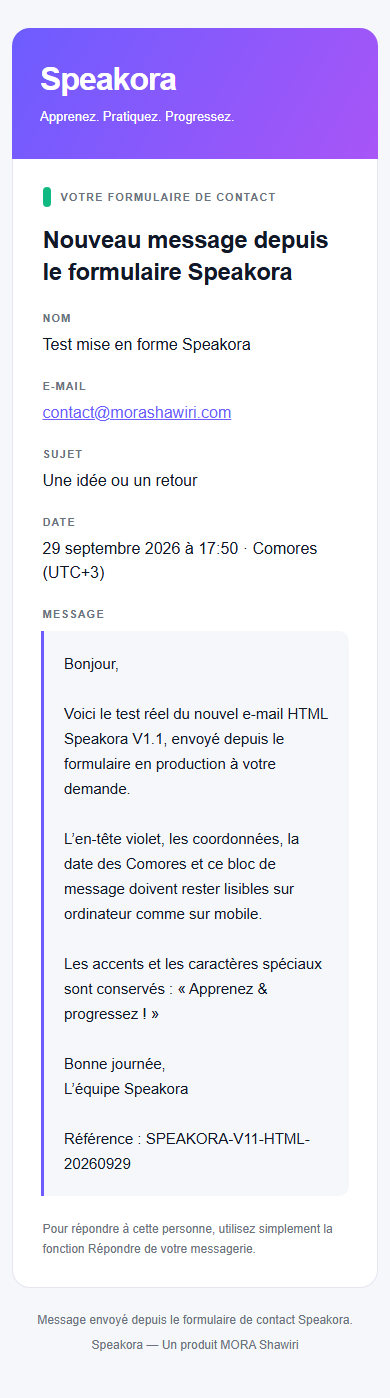
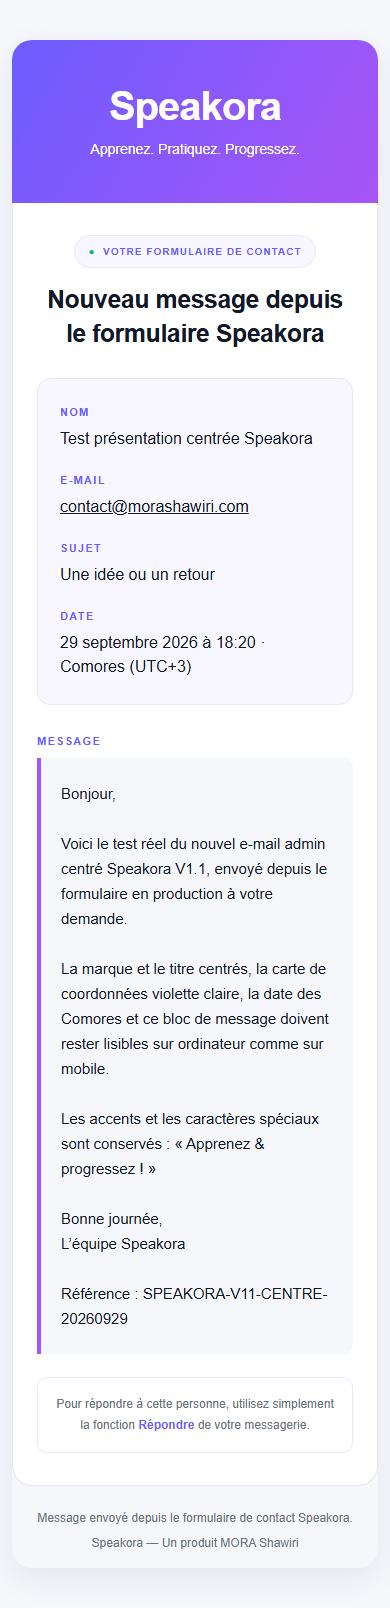
docs: record centered email production test and screenshots

Changed region(s): [[0.0308, 0.0, 0.9846, 0.9227], [0.4308, 0.9535, 0.7692, 0.9843], [0.2462, 0.9535, 0.3692, 0.9843]]

diff --git a/05 Rapports/Email V1.1/email-contact.html b/05 Rapports/Email V1.1/email-contact.html
@@ -1,21 +1,24 @@
 <!doctype html>
 <html lang="fr" xmlns="http://www.w3.org/1999/xhtml"><head><meta charset="utf-8"><meta name="viewport" content="width=device-width, initial-scale=1"><meta name="x-apple-disable-message-reformatting"><title>Nouveau message Speakora</title></head>
 <body style="margin:0;padding:0;width:100%;background-color:#F5F7FB;-webkit-text-size-adjust:100%;-ms-text-size-adjust:100%;">
-<div style="display:none;font-size:1px;color:#F5F7FB;line-height:1px;max-height:0;max-width:0;opacity:0;overflow:hidden;mso-hide:all;">Test mise en forme Speakora vous écrit : Une idée ou un retour.</div>
-<table role="presentation" width="100%" cellspacing="0" cellpadding="0" border="0" bgcolor="#F5F7FB" style="width:100%;border-collapse:collapse;background-color:#F5F7FB;"><tr><td align="center" style="padding:28px 12px;">
-<!--[if mso]><table role="presentation" width="600" cellspacing="0" cellpadding="0" border="0"><tr><td><![endif]-->
-<table role="presentation" width="100%" cellspacing="0" cellpadding="0" border="0" style="width:100%;max-width:600px;border-collapse:separate;border-spacing:0;">
-<tr><td bgcolor="#6D5CFF" style="padding:32px 28px;background-color:#6D5CFF;background-image:linear-gradient(120deg,#6D5CFF 0%,#A855F7 100%);border-radius:18px 18px 0 0;">
-<p style="margin:0 0 8px;font-family:Arial,Helvetica,sans-serif;font-size:32px;line-height:38px;letter-spacing:-1px;font-weight:bold;color:#FFFFFF;">Speakora</p>
-<p style="margin:0;font-family:Arial,Helvetica,sans-serif;font-size:13px;line-height:21px;color:#FFFFFF;">Apprenez. Pratiquez. Progressez.</p></td></tr>
-<tr><td bgcolor="#FFFFFF" style="padding:28px;background-color:#FFFFFF;border-left:1px solid #E7E5F0;border-right:1px solid #E7E5F0;border-bottom:1px solid #E7E5F0;border-radius:0 0 18px 18px;">
-<table role="presentation" width="100%" cellspacing="0" cellpadding="0" border="0" style="width:100%;table-layout:fixed;border-collapse:collapse;">
-<tr><td style="padding:0 0 17px;"><table role="presentation" cellspacing="0" cellpadding="0" border="0"><tr><td width="8" bgcolor="#10B981" style="width:8px;background-color:#10B981;border-radius:4px;"></td><td style="padding:2px 0 2px 10px;font-family:Arial,Helvetica,sans-serif;font-size:11px;line-height:16px;letter-spacing:1px;font-weight:bold;color:#6B7280;">VOTRE FORMULAIRE DE CONTACT</td></tr></table></td></tr>
-<tr><td><h1 style="margin:0 0 22px;font-family:Arial,Helvetica,sans-serif;font-size:24px;line-height:32px;letter-spacing:-0.4px;font-weight:bold;color:#111827;">Nouveau message depuis le formulaire Speakora</h1></td></tr>
-<tr><td style="padding:0 0 7px;font-family:Arial,Helvetica,sans-serif;font-size:11px;line-height:16px;font-weight:bold;letter-spacing:1px;color:#6B7280;">NOM</td></tr><tr><td style="padding:0 0 21px;font-family:Arial,Helvetica,sans-serif;font-size:16px;line-height:24px;color:#111827;word-break:break-word;overflow-wrap:anywhere;">Test mise en forme Speakora</td></tr><tr><td style="padding:0 0 7px;font-family:Arial,Helvetica,sans-serif;font-size:11px;line-height:16px;font-weight:bold;letter-spacing:1px;color:#6B7280;">E-MAIL</td></tr><tr><td style="padding:0 0 21px;font-family:Arial,Helvetica,sans-serif;font-size:16px;line-height:24px;color:#111827;word-break:break-word;overflow-wrap:anywhere;"><a href="mailto:contact@morashawiri.com" style="color:#6D5CFF;text-decoration:underline;word-break:break-all;">contact@morashawiri.com</a></td></tr><tr><td style="padding:0 0 7px;font-family:Arial,Helvetica,sans-serif;font-size:11px;line-height:16px;font-weight:bold;letter-spacing:1px;color:#6B7280;">SUJET</td></tr><tr><td style="padding:0 0 21px;font-family:Arial,Helvetica,sans-serif;font-size:16px;line-height:24px;color:#111827;word-break:break-word;overflow-wrap:anywhere;">Une idée ou un retour</td></tr><tr><td style="padding:0 0 7px;font-family:Arial,Helvetica,sans-serif;font-size:11px;line-height:16px;font-weight:bold;letter-spacing:1px;color:#6B7280;">DATE</td></tr><tr><td style="padding:0 0 21px;font-family:Arial,Helvetica,sans-serif;font-size:16px;line-height:24px;color:#111827;word-break:break-word;overflow-wrap:anywhere;">29 septembre 2026 à 17:50 · Comores (UTC+3)</td></tr>
-<tr><td style="padding:0 0 9px;font-family:Arial,Helvetica,sans-serif;font-size:11px;line-height:16px;font-weight:bold;letter-spacing:1px;color:#6B7280;">MESSAGE</td></tr>
-<tr><td bgcolor="#F5F7FB" style="padding:20px;background-color:#F5F7FB;border-left:3px solid #6D5CFF;border-radius:0 10px 10px 0;font-family:Arial,Helvetica,sans-serif;font-size:15px;line-height:25px;color:#111827;word-break:break-word;overflow-wrap:anywhere;">Bonjour,<br><br>Voici le test réel du nouvel e-mail HTML Speakora V1.1, envoyé depuis le formulaire en production à votre demande.<br><br>L’en-tête violet, les coordonnées, la date des Comores et ce bloc de message doivent rester lisibles sur ordinateur comme sur mobile.<br><br>Les accents et les caractères spéciaux sont conservés : « Apprenez &amp; progressez ! »<br><br>Bonne journée,<br>L’équipe Speakora<br><br>Référence : SPEAKORA-V11-HTML-20260929</td></tr>
-<tr><td style="padding:23px 0 0;font-family:Arial,Helvetica,sans-serif;font-size:12px;line-height:20px;color:#6B7280;">Pour répondre à cette personne, utilisez simplement la fonction Répondre de votre messagerie.</td></tr>
+<div style="display:none;font-size:1px;color:#F5F7FB;line-height:1px;max-height:0;max-width:0;opacity:0;overflow:hidden;mso-hide:all;">Test présentation centrée Speakora vous écrit : Une idée ou un retour.</div>
+<table role="presentation" width="100%" cellspacing="0" cellpadding="0" border="0" bgcolor="#F5F7FB" style="width:100%;border-collapse:collapse;background-color:#F5F7FB;"><tr><td align="center" style="padding:40px 12px;">
+<!--[if mso]><table role="presentation" width="640" cellspacing="0" cellpadding="0" border="0"><tr><td><![endif]-->
+<table role="presentation" width="100%" cellspacing="0" cellpadding="0" border="0" style="width:100%;max-width:640px;border-collapse:separate;border-spacing:0;border-radius:20px;box-shadow:0 10px 32px rgba(55,35,105,0.08);">
+<tr><td align="center" bgcolor="#6D5CFF" style="padding:42px 24px;text-align:center;background-color:#6D5CFF;background-image:linear-gradient(120deg,#6D5CFF 0%,#A855F7 100%);border-radius:20px 20px 0 0;">
+<p style="margin:0 0 8px;font-family:Arial,Helvetica,sans-serif;font-size:40px;line-height:48px;letter-spacing:-1px;font-weight:bold;color:#FFFFFF;">Speakora</p>
+<p style="margin:0;font-family:Arial,Helvetica,sans-serif;font-size:14px;line-height:23px;color:#FFFFFF;">Apprenez. Pratiquez. Progressez.</p></td></tr>
+<tr><td bgcolor="#FFFFFF" style="padding:32px 24px;background-color:#FFFFFF;border-left:1px solid #E7E5F0;border-right:1px solid #E7E5F0;border-bottom:1px solid #E7E5F0;border-radius:0 0 20px 20px;">
+<table role="presentation" width="100%" cellspacing="0" cellpadding="0" border="0" style="width:100%;table-layout:fixed;border-collapse:separate;border-spacing:0;">
+<tr><td align="center" style="padding:0 0 14px;text-align:center;"><table role="presentation" align="center" cellspacing="0" cellpadding="0" border="0" style="margin:0 auto;"><tr><td bgcolor="#F8F7FF" style="padding:8px 13px;background-color:#F8F7FF;border:1px solid #E9E4FF;border-radius:20px;font-family:Arial,Helvetica,sans-serif;font-size:10px;line-height:15px;letter-spacing:1px;font-weight:bold;color:#6D5CFF;text-align:center;"><span style="color:#10B981;">●</span>&nbsp; VOTRE FORMULAIRE DE CONTACT</td></tr></table></td></tr>
+<tr><td align="center" style="text-align:center;padding:0 4px 28px;"><h1 style="margin:0;font-family:Arial,Helvetica,sans-serif;font-size:25px;line-height:34px;letter-spacing:-0.5px;font-weight:bold;color:#111827;text-align:center;">Nouveau message depuis<br>le formulaire Speakora</h1></td></tr>
+<tr><td bgcolor="#F8F7FF" style="padding:25px 22px 4px;background-color:#F8F7FF;border:1px solid #EAE6FA;border-radius:13px;"><table role="presentation" width="100%" cellspacing="0" cellpadding="0" border="0" style="width:100%;table-layout:fixed;border-collapse:separate;border-spacing:0;">
+<tr><td style="padding:0 0 7px;font-family:Arial,Helvetica,sans-serif;font-size:11px;line-height:16px;font-weight:bold;letter-spacing:1.3px;color:#6D5CFF;">NOM</td></tr><tr><td style="padding:0 0 21px;font-family:Arial,Helvetica,sans-serif;font-size:16px;line-height:24px;color:#111827;word-break:break-word;overflow-wrap:anywhere;">Test présentation centrée Speakora</td></tr><tr><td style="padding:0 0 7px;font-family:Arial,Helvetica,sans-serif;font-size:11px;line-height:16px;font-weight:bold;letter-spacing:1.3px;color:#6D5CFF;">E-MAIL</td></tr><tr><td style="padding:0 0 21px;font-family:Arial,Helvetica,sans-serif;font-size:16px;line-height:24px;color:#111827;word-break:break-word;overflow-wrap:anywhere;"><a href="mailto:contact@morashawiri.com" style="color:#111827;text-decoration:underline;word-break:break-all;">contact@morashawiri.com</a></td></tr><tr><td style="padding:0 0 7px;font-family:Arial,Helvetica,sans-serif;font-size:11px;line-height:16px;font-weight:bold;letter-spacing:1.3px;color:#6D5CFF;">SUJET</td></tr><tr><td style="padding:0 0 21px;font-family:Arial,Helvetica,sans-serif;font-size:16px;line-height:24px;color:#111827;word-break:break-word;overflow-wrap:anywhere;">Une idée ou un retour</td></tr><tr><td style="padding:0 0 7px;font-family:Arial,Helvetica,sans-serif;font-size:11px;line-height:16px;font-weight:bold;letter-spacing:1.3px;color:#6D5CFF;">DATE</td></tr><tr><td style="padding:0 0 21px;font-family:Arial,Helvetica,sans-serif;font-size:16px;line-height:24px;color:#111827;word-break:break-word;overflow-wrap:anywhere;">29 septembre 2026 à 18:20 · Comores (UTC+3)</td></tr>
+</table></td></tr>
+<tr><td height="28" style="height:28px;font-size:1px;line-height:28px;">&nbsp;</td></tr>
+<tr><td style="padding:0 0 9px;font-family:Arial,Helvetica,sans-serif;font-size:11px;line-height:16px;font-weight:bold;letter-spacing:1.3px;color:#6D5CFF;">MESSAGE</td></tr>
+<tr><td bgcolor="#F5F7FB" style="padding:23px 20px;background-color:#F5F7FB;border-left:4px solid #A855F7;border-radius:0 10px 10px 0;font-family:Arial,Helvetica,sans-serif;font-size:15px;line-height:25px;color:#111827;word-break:break-word;overflow-wrap:anywhere;">Bonjour,<br><br>Voici le test réel du nouvel e-mail admin centré Speakora V1.1, envoyé depuis le formulaire en production à votre demande.<br><br>La marque et le titre centrés, la carte de coordonnées violette claire, la date des Comores et ce bloc de message doivent rester lisibles sur ordinateur comme sur mobile.<br><br>Les accents et les caractères spéciaux sont conservés : « Apprenez &amp; progressez ! »<br><br>Bonne journée,<br>L’équipe Speakora<br><br>Référence : SPEAKORA-V11-CENTRE-20260929</td></tr>
+<tr><td style="padding:23px 0 0;"><table role="presentation" width="100%" cellspacing="0" cellpadding="0" border="0"><tr><td align="center" style="padding:16px 18px;border:1px solid #EAE6FA;border-radius:10px;text-align:center;font-family:Arial,Helvetica,sans-serif;font-size:12px;line-height:21px;color:#6B7280;">Pour répondre à cette personne, utilisez simplement la fonction <strong style="color:#6D5CFF;font-weight:bold;">Répondre</strong> de votre messagerie.</td></tr></table></td></tr>
 </table></td></tr>
 <tr><td align="center" style="padding:22px 16px 5px;font-family:Arial,Helvetica,sans-serif;font-size:12px;line-height:20px;color:#6B7280;">Message envoyé depuis le formulaire de contact Speakora.</td></tr>
 <tr><td align="center" style="padding:0 16px 15px;font-family:Arial,Helvetica,sans-serif;font-size:12px;line-height:20px;color:#6B7280;">Speakora — Un produit MORA Shawiri</td></tr>

diff --git a/05 Rapports/04 Rapport de correction Speakora V1.1.md b/05 Rapports/04 Rapport de correction Speakora V1.1.md
@@ -98,4 +98,12 @@ Le nouveau test réel autorisé utilise la référence `SPEAKORA-V11-HTML-202609
 
 ## État final de livraison
 
-Application et serveur HTML : commit `4e230a4ded520bb2344c211e2b51daa45b65c0c0`, déploiement `dpl_4gQQv8mwukWv2WvPLdimnAgXMA1x`, état READY. Les commits de documentation/captures ultérieurs ne modifient pas ce code de production. Audit npm des dépendances de production : zéro vulnérabilité signalée. Le rapport de la suite finale contient 11 réussites et aucun échec.
+Application et serveur HTML : commit `9ae4b36c117bc522cd557677592f4e010fdc8d80`, déploiement `dpl_DYZEPrYqPAnbAGoh4TycdKDLQjV8`, état READY. Les commits de documentation/captures ultérieurs ne modifient pas ce code de production. Audit npm des dépendances de production : zéro vulnérabilité signalée. Le rapport de la suite finale contient 11 réussites et aucun échec.
+
+## 10. Révision du mail admin : composition centrée
+
+Suite au retour de l’utilisateur, le modèle a été repris pour suivre les règles fournies pour les e-mails Fluent Forms : conteneur centré de 640 px maximum, fond #F5F7FB, carte blanche arrondie et ombre légère, grand en-tête dégradé avec marque et slogan centrés, badge et titre centrés. Les coordonnées sont regroupées à gauche dans une carte #F8F7FF, avec labels violets et valeurs #111827. Le message possède son propre bloc à bordure mauve, suivi d’un conseil encadré et centré. La signature est centrée.
+
+Les styles demeurent entièrement inline, les tableaux et le repli Outlook sont conservés. Les tests de sécurité, les alternatives HTML/texte et les sujets restent inchangés. Vérification : 18 tests unitaires réussis et aperçus à 760/390 px, avec stress à 320 px pour 5 000 caractères. Le nouveau message de test autorisé porte la référence `SPEAKORA-V11-CENTRE-20260929` ; ses preuves et captures remplacent les aperçus de l’ancien modèle dans `Email V1.1`. La réception de l’ancien mail HTML a été confirmée par l’utilisateur avant cette révision.
+
+Révision centrée déployée et vérifiée : envoi réel accepté par SMTP le 29 septembre 2026 à 18 h 20 (Comores), réponse HTTP 200. Les captures ont été régénérées avec l’horodatage exact renvoyé par la production. Elles montrent le HTML envoyé, rendu dans Chromium ; elles ne sont pas présentées comme des captures natives Gmail/Outlook. La dernière modification concerne uniquement le modèle d’e-mail : les 11 tests navigateur de l’application restent ceux de la passe précédente, les 18 tests unitaires ont été rejoués avec succès après cette modification.
